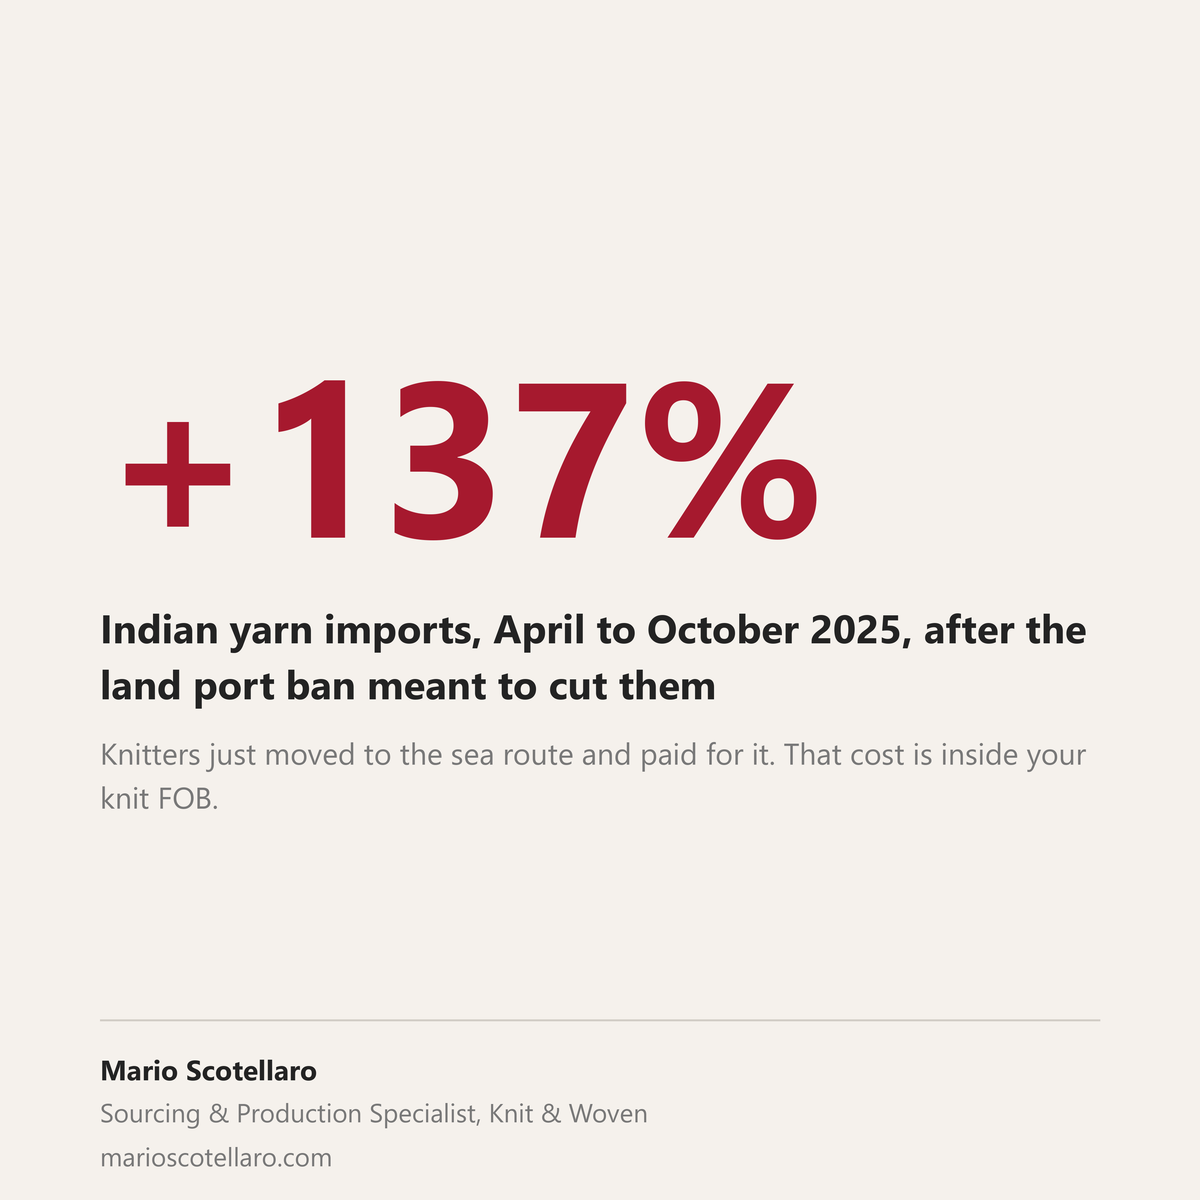
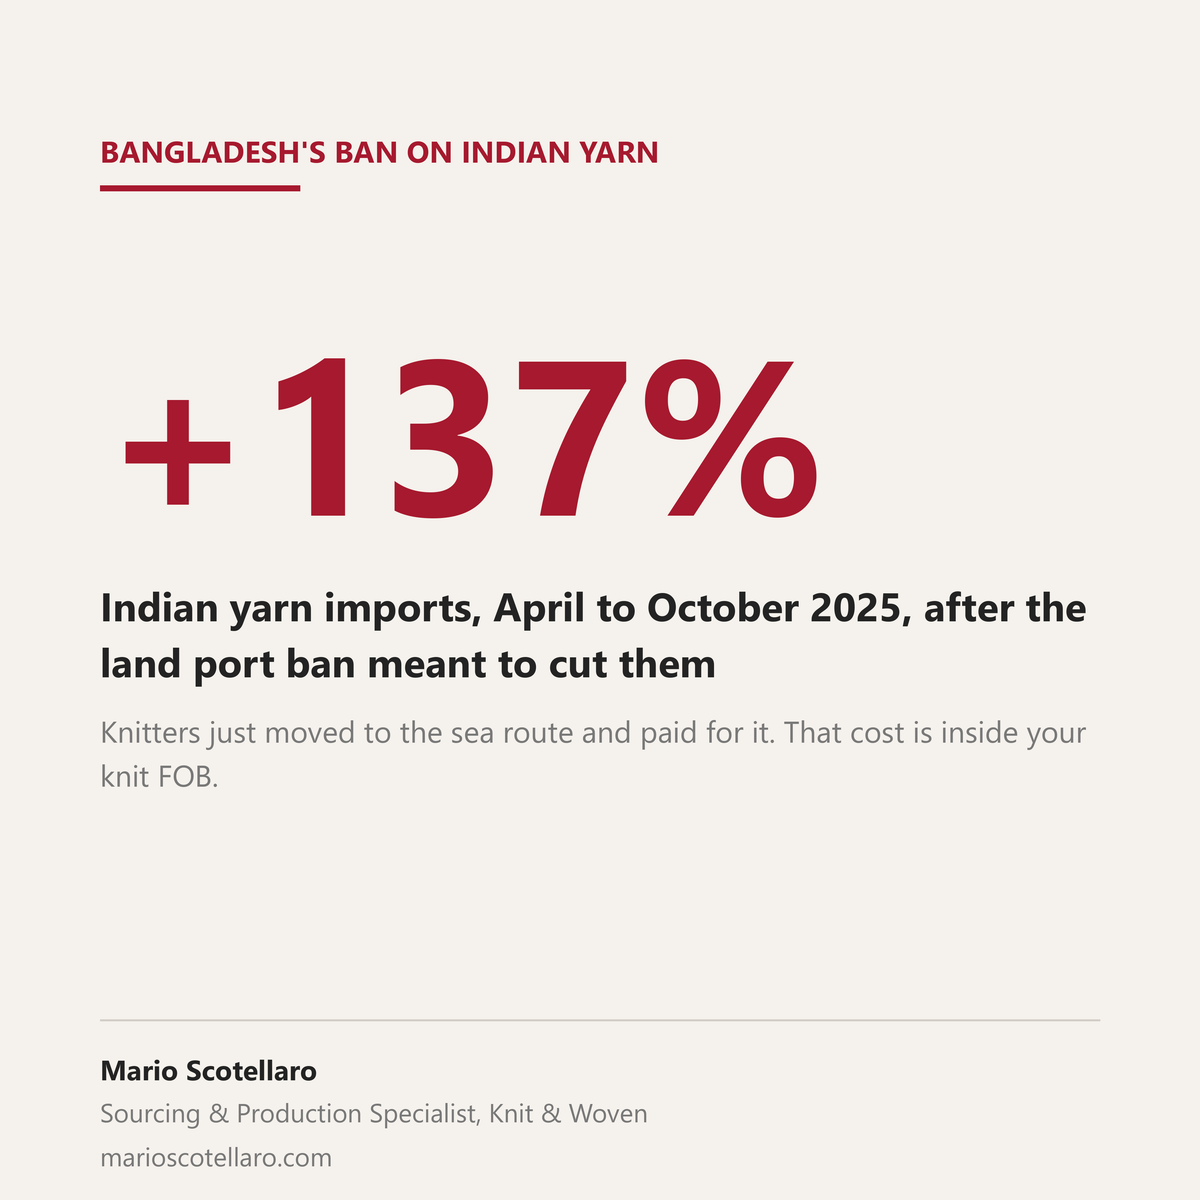
Card cover: object-position center top per non tagliare il kicker
Il ritaglio a 190px centrato tagliava il kicker delle cover flat lasciando
la barretta rossa dell'underline orfana sopra il numero (visibile su
pakistan-rmg, turkey-cost, usfia, pakistan-energy, yarn-ban). Ancorato il
ritaglio in alto in style.css. Cover yarn-ban riportata al cover_FLAT_EN
di LinkedIn (byte-identico agli altri articoli).

diff --git a/style.css b/style.css
@@ -122,7 +122,7 @@ h2 {
 .card.article-card { text-decoration: none; color: inherit; display: block; transition: border-color 0.15s; }
 .card.article-card:hover { border-color: var(--crimson); }
 .card.article-card img {
-  width: 100%; height: 190px; object-fit: cover;
+  width: 100%; height: 190px; object-fit: cover; object-position: center top;
   background: var(--paper);
 }
 .article-meta {
